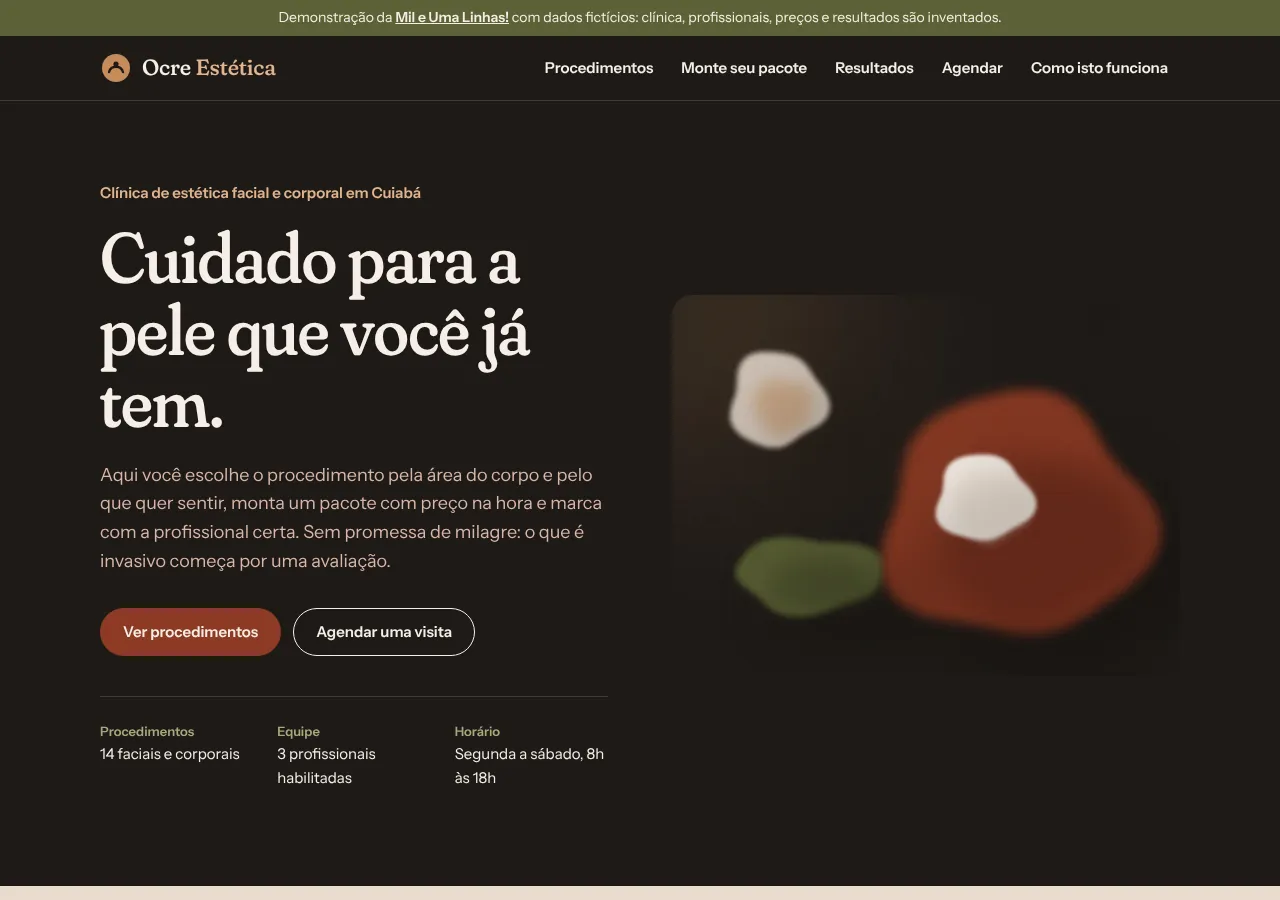
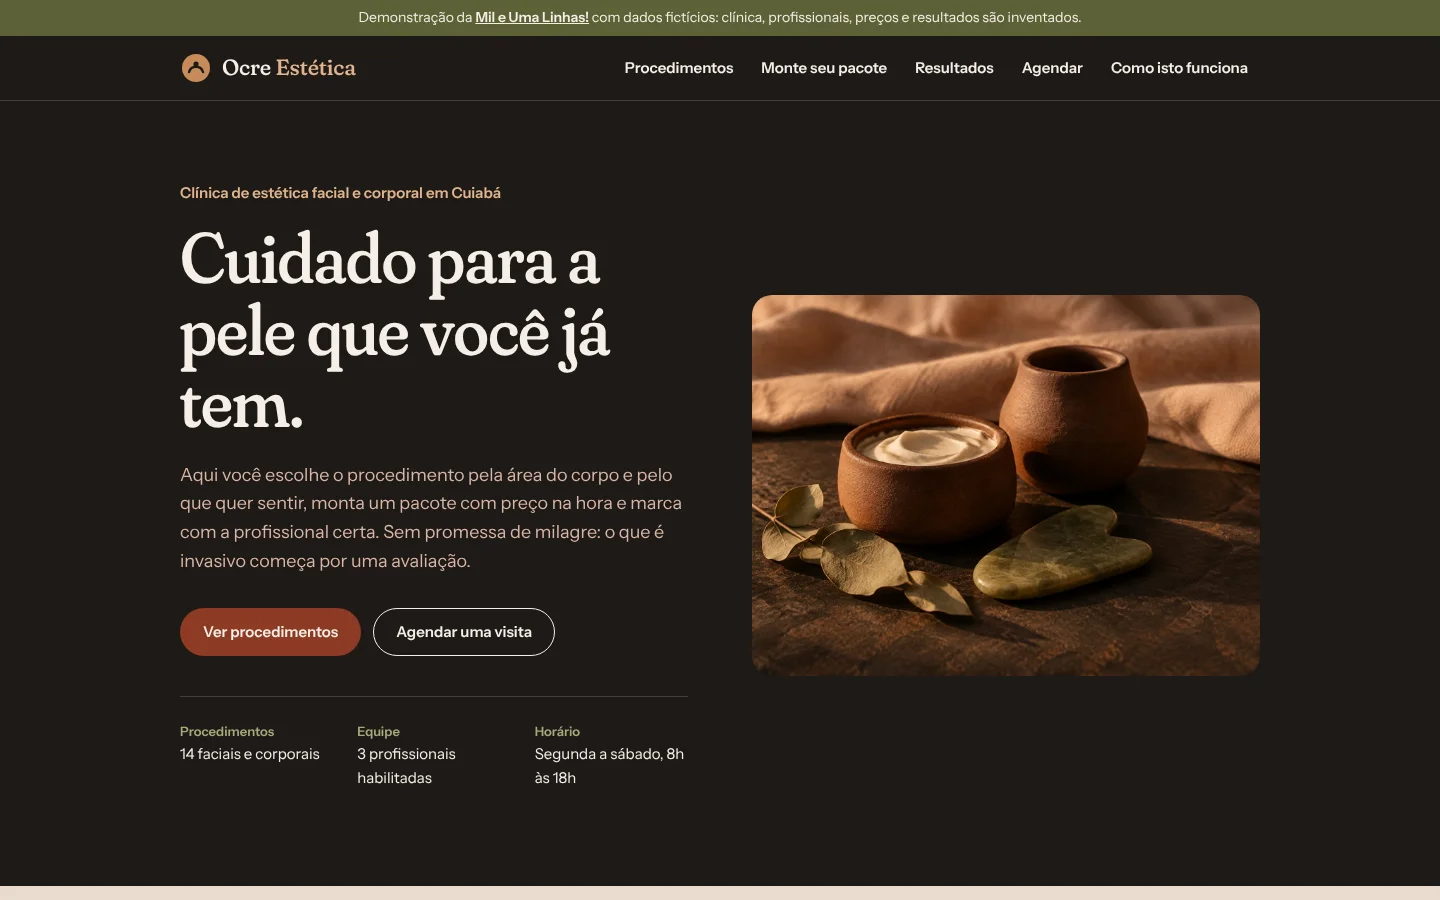
Foto de hero gerada no Canva troca a provisória
Troca img/hero.webp pela foto gerada por IA no Canva (cena da
profissão, sem texto e sem pessoas reais), ajusta largura, altura e
texto alternativo da imagem no index.html, atualiza as capturas de
tela (docs/capa-desktop.webp e docs/capa-celular.webp) e corrige no
README e em docs/identidade.md os trechos que diziam que a imagem era
provisória. Testes em 1280x900, iPhone 13 e 320px sem erro de console
nem rolagem horizontal.

Claude-Session: https://claude.ai/code/session_015DVsuVad392kn1wvAjF541

diff --git a/index.html b/index.html
@@ -64,7 +64,7 @@
           </dl>
         </div>
         <figure class="hero-figura">
-          <img class="hero-foto" src="img/hero.webp" width="1600" height="1200" alt="Composição abstrata nas cores da clínica: formas de argila, linho e oliva sobre fundo escuro e quente." fetchpriority="high">
+          <img class="hero-foto" src="img/hero.webp" width="1440" height="1080" alt="Duas peças de argila, uma tigela com creme claro e um pote, sobre tecido cor de pêssego, com folhas de eucalipto e uma pedra verde de massagem facial. Imagem gerada por IA, ilustrativa." fetchpriority="high">
         </figure>
       </div>
     </section>

diff --git a/README.md b/README.md
@@ -45,7 +45,7 @@ Estudo completo em [docs/identidade.md](docs/identidade.md). Resumo:
 - **Paleta:** Fuligem `#1E1A17` (fundo escuro quente), Areia `#E9DCCF` (fundo claro, tom de pele), Linho `#F6EFE7` (cartões e texto sobre escuro), Argila `#8C3A24` (o único destaque forte, um por tela), Oliva `#5C6136` (etiquetas, cabo do comparador), Ocre `#C68B59` (só em ilustração e foto).
 - **Fontes:** Fraunces (títulos, com eixos SOFT e WONK ligados para dar personalidade de barro) e Instrument Sans (texto e interface). Ambas locais, SIL OFL.
 - **Por quê:** estética é cuidado com a pele, e pele tem a cor da terra. Fugi do rosa de perfumaria e do dourado de promessa. A base escura e quente faz a clínica parecer um ateliê, não uma farmácia; a Argila aparece pouco para valer muito.
-- **Imagem forte:** uma fotografia no hero, em contêiner 4:3. A imagem atual em `img/hero.webp` é provisória, gerada em código nas cores da identidade; o prompt para a foto definitiva está em `docs/identidade.md`.
+- **Imagem forte:** uma fotografia no hero, em contêiner 4:3. A imagem em `img/hero.webp` é uma foto gerada por IA no Canva (ilustrativa, não é uma obra real); o prompt usado está em `docs/identidade.md`.
 
 ## Como funciona por dentro
 

diff --git a/docs/identidade.md b/docs/identidade.md
@@ -63,7 +63,7 @@ Regra de peso: a Fraunces nunca passa de 600; títulos pesados viram "padaria". 
 
 ## Imagem forte
 
-A imagem do hero é uma **fotografia** em contêiner 4:3 com cantos de 20px, à direita do título. Enquanto a foto definitiva não chega, `img/hero.webp` é uma composição abstrata gerada com Pillow nas cores da identidade (formas orgânicas em Ocre, Argila e Areia sobre Fuligem, com grão fino), 1600 por 1200 pixels, sem texto.
+A imagem do hero é uma **fotografia** em contêiner 4:3 com cantos de 20px, à direita do título. A foto atual de `img/hero.webp` foi gerada por IA no Canva (ilustrativa, não é uma obra real), 1440 x 1080px, sem texto.
 
 As ilustrações da galeria de resultados são SVG abstratos (texturas de pele, contorno, luminosidade) e dizem isso na legenda: são ilustrações, não fotos de pacientes.
 
